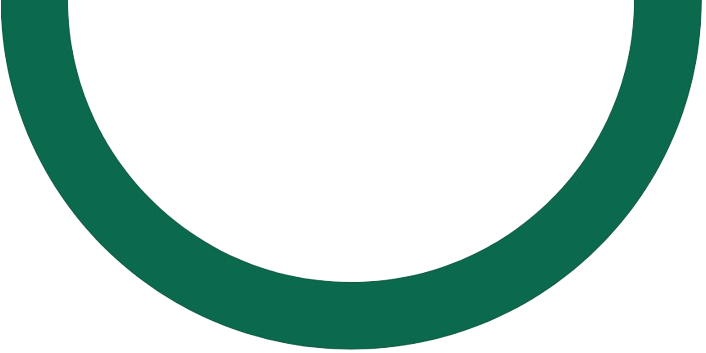
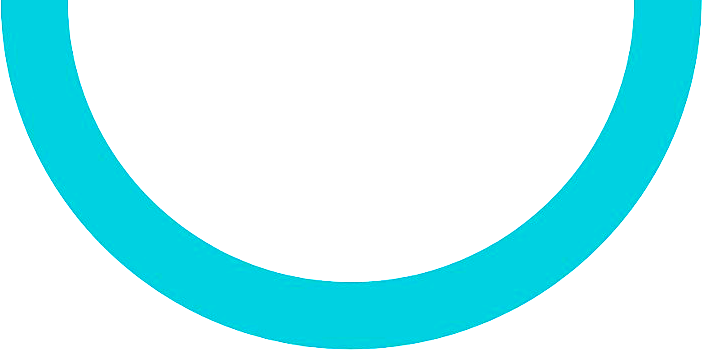
cambiando color

Changed region(s): [[0.0, 0.0, 0.9972, 0.9972]]

diff --git a/script.js b/script.js
@@ -386,8 +386,11 @@ class ManejadorDientes {
           nuevaImagen.style.position = 'absolute';
             if(label == 4 || label == 5 || label == 6 || label == 7){
               nuevaImagen.style.left = puntoCentralX + ((dimensiones.width / 2.5)-12) + 'px';
+                if(label==4 ){
 
-                if(label==4 || label == 7){
+                  nuevaImagen.src = '/DIENTES CORTADOS/BOTONARRIBA4.png';
+                }
+                if(label == 7){
                   nuevaImagen.src = '/DIENTES CORTADOS/BOTONARRIBA47.png';
                   nuevaImagen.style.left = puntoCentralX + ((dimensiones.width / 2.5)-14) + 'px';
                 }else if (label == 5){
@@ -410,9 +413,12 @@ class ManejadorDientes {
               if (label == 4 || label == 7){
                 nuevaImagen.style.height = '10px';
 
-              }else {
+              }else if (label == 5){
 
+                nuevaImagen.style.height = '15px';
+              }else {
                 nuevaImagen.style.height = '20px';
+
               }
 
 
